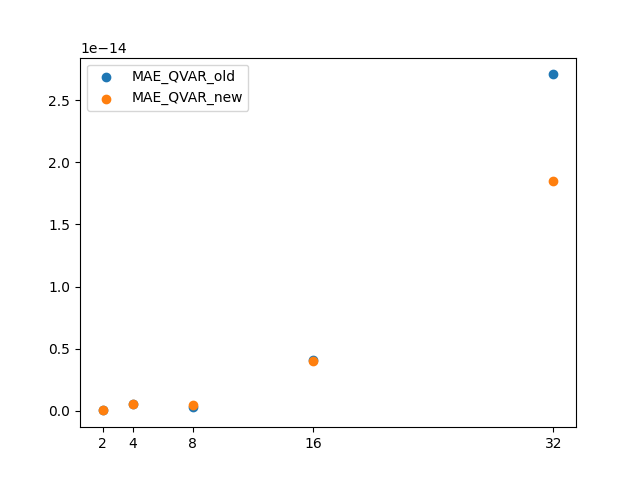
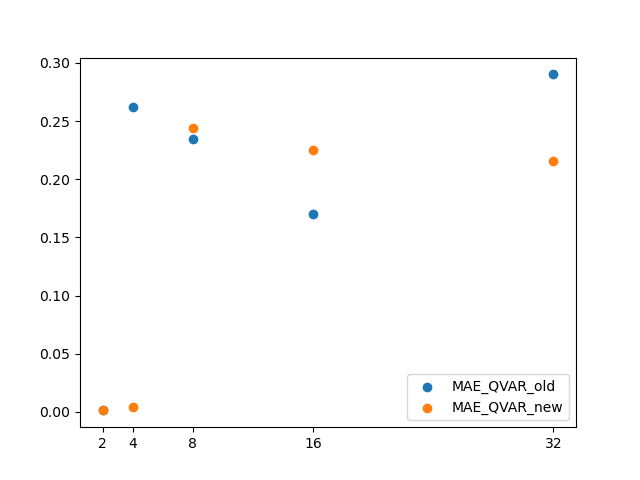
test with statevector encoding

diff --git a/test.py b/test.py
@@ -77,20 +77,14 @@ def test_ffqram(N):
     print("MSE: " + str(np.mean(differences)))
 
 def test_noise():
-    '''
-    noisy_instance = Fake20QV1()
-    noise_model = NoiseModel.from_backend(noisy_instance)
-    coupling_map = noisy_instance.configuration().coupling_map
-    basis_gates = noise_model.basis_gates
 
-    backend = AerSimulator(noise_model=noise_model, coupling_map=coupling_map, basis_gates=basis_gates)
-    '''
-        
-    N_list = [2,4,8,16,32]
+    N_list = [2,4,8,16,32,64]
     trial = 10
 
     mae_qold = []
     mae_qnew = []
+    mse_qold = []
+    mse_qnew = []
 
     for N in N_list:
         print("N = " + str(N))
@@ -98,11 +92,13 @@ def test_noise():
         q_old = []
         q_new = []
         
+        n = math.ceil(math.log2(N))
+        backend = GenericBackendV2(3*n + 2)
         #print("Classical - QVAR_old - QVAR_new")
         for i in range(trial):
             np.random.seed(123*i)
             vector = np.random.uniform(-1,1, N)
-            n = math.ceil(math.log2(N))
+            
         
             r = QuantumRegister(1, 'r') 
             i = QuantumRegister(n, 'i')  
@@ -115,11 +111,8 @@ def test_noise():
                 _register_switcher(U, index, i)
                 U.mcry(np.arcsin(val)*2, i[0:], r) 
                 _register_switcher(U, index, i)
-            
-            n = int(np.log2(N)) 
-            backend = GenericBackendV2(3*n + 2)
+                       
             q_var_old = QVAR_old(U, var_index=list(range(n)), ps_index=[U.num_qubits-1], version='STATEVECTOR', n_h_gates=n, backend=backend)
-            backend = GenericBackendV2(2*n + 2)
             q_var_new = QVAR(U, var_index=list(range(n)), ps_index=[U.num_qubits-1], version='STATEVECTOR', n_h_gates=n, backend=backend)
             classical = np.var(vector)
             #print(str(classical)+ " - " + str(q_var_old) + " - " + str(q_var_new))
@@ -134,11 +127,24 @@ def test_noise():
         mae_qold.append(mae_old)
         mae_qnew.append(mae_new)
 
+        mse_old = np.mean([(x-y)**2 for x,y in zip(q_old, cl)])
+        mse_new = np.mean([(x-y)**2 for x,y in zip(q_new, cl)])
+        print("MSE QVAR_old = " + str(mse_old))
+        print("MSE QVAR_new = " + str(mse_new))
+        mse_qold.append(mse_old)
+        mse_qnew.append(mse_new)
+
     plt.scatter(N_list, mae_qold, label="MAE_QVAR_old")
     plt.scatter(N_list, mae_qnew, label="MAE_QVAR_new")
     plt.xticks(N_list)
     plt.legend()
-    plt.savefig("results.png")
+    plt.savefig("MAE.png")
+    fig2, ax2 = plt.subplots()
+    plt.scatter(N_list, mse_qold, label="MSE_QVAR_old")
+    plt.scatter(N_list, mse_qnew, label="MSE_QVAR_new")
+    plt.xticks(N_list)
+    plt.legend()
+    plt.savefig("MSE.png")
 
 if __name__ == "__main__":
 

diff --git a/qvar.py b/qvar.py
@@ -64,8 +64,10 @@ def QVAR_old(U, var_index=None, ps_index=None, version='FAE', delta=0.0001, max_
     else:
         qc = QuantumCircuit(a, e, q, u)
 
-    qc.append(U.to_gate(), list(range(1+e_qbits+q_qbits, qc.num_qubits)))    
-    
+    #qc.append(U.to_gate(), list(range(1+e_qbits+q_qbits, qc.num_qubits)))    
+    st_ff = Statevector.from_instruction(U)
+    qc.append(StatePreparation(st_ff.data), list(range(1+e_qbits+q_qbits, qc.num_qubits)))
+
     qc.h(a)
     qc.cx(a,e)
     qc.x(e)
@@ -189,8 +191,9 @@ def QVAR(U, var_index=None, ps_index=None, version='FAE', delta=0.0001, max_iter
     else:
         qc = QuantumCircuit(a, e, u)
     
-    qc.append(U.to_gate(), list(range(1+e_qbits, qc.num_qubits)))    
-    
+    #qc.append(U.to_gate(), list(range(1+e_qbits, qc.num_qubits)))       
+    st_ff = Statevector.from_instruction(U)
+    qc.append(StatePreparation(st_ff.data), list(range(1+e_qbits, qc.num_qubits)))
     qc.h(a)
 
     for t in range(i_qbits):
